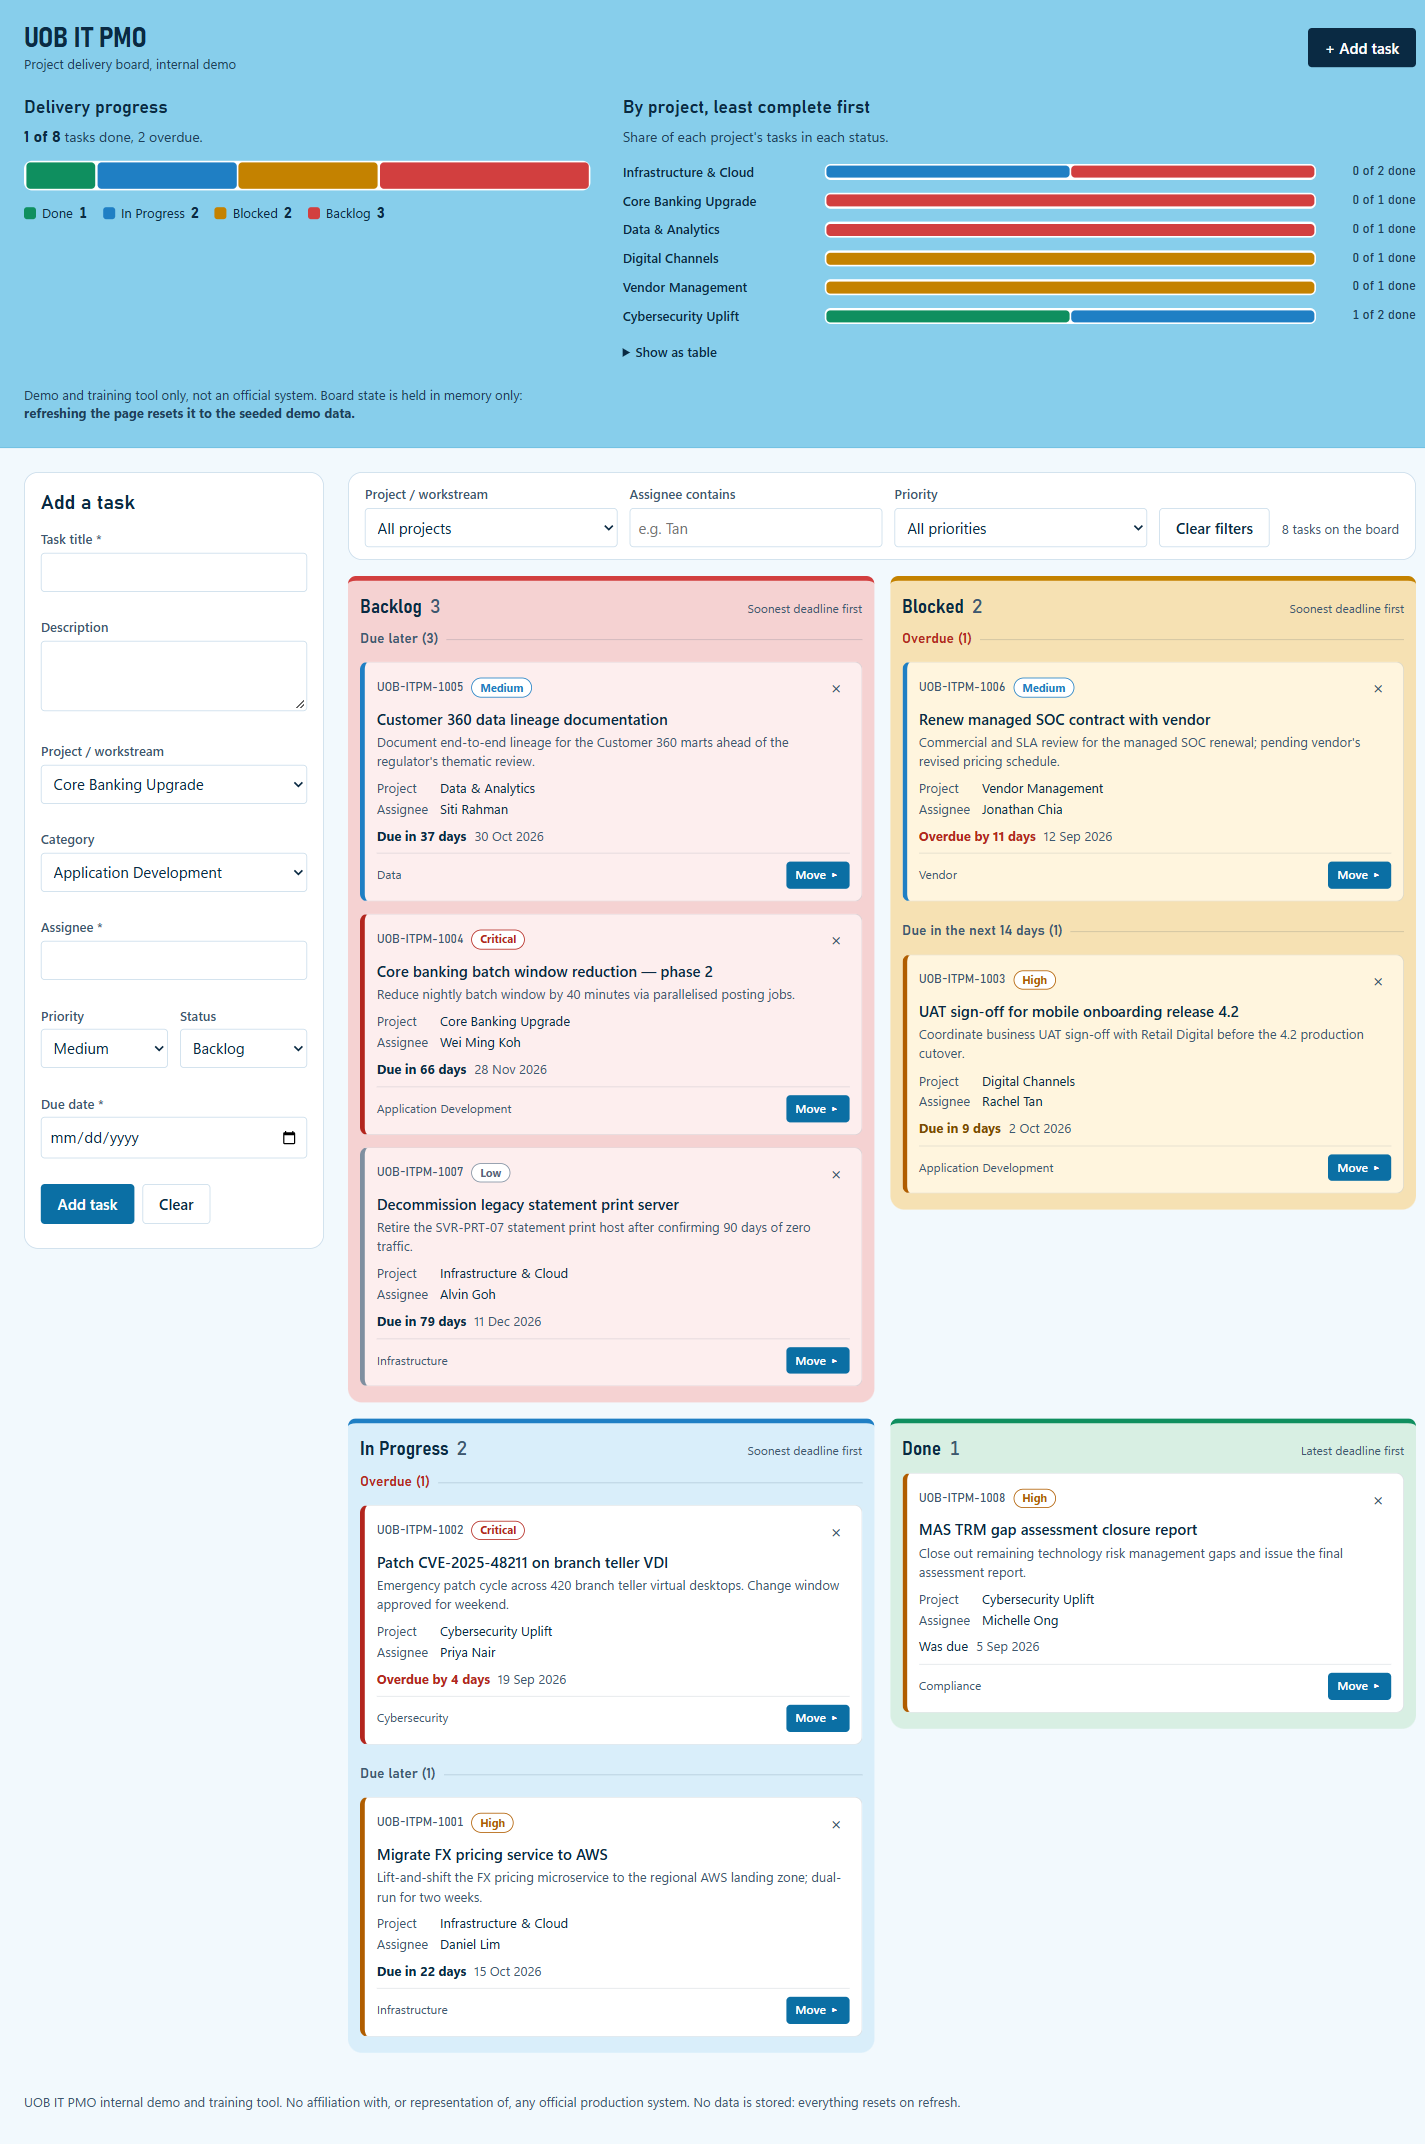
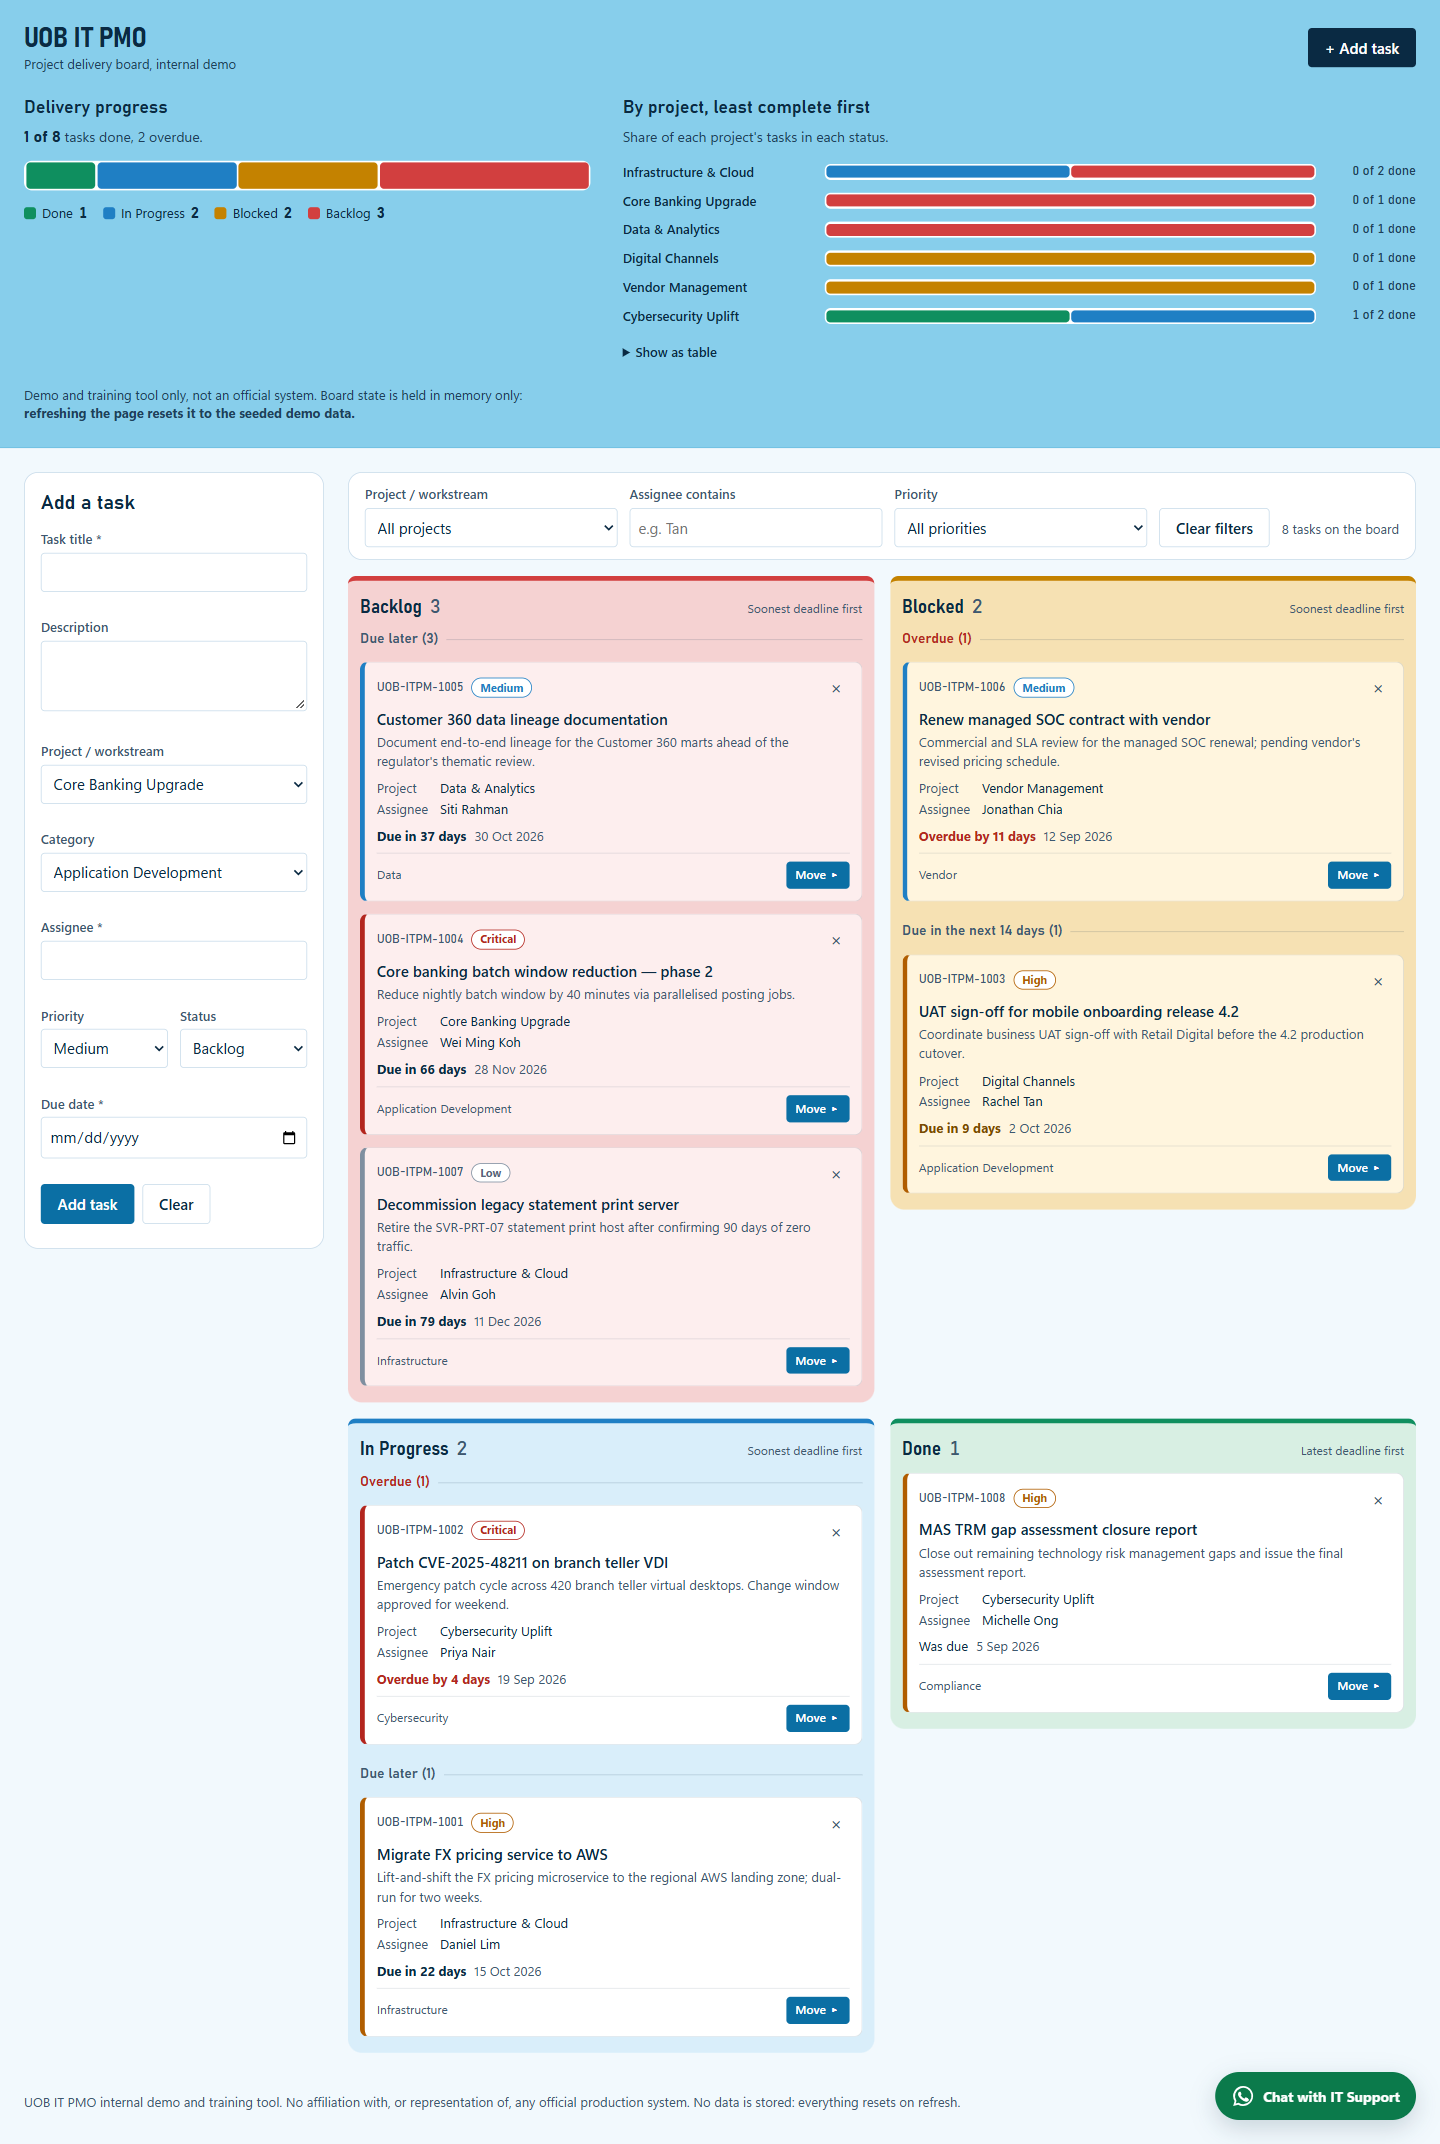
Refresh the README screenshot to show the chat button
Captured from the live site at full-page viewport height so the fixed
button sits where visitors see it, not over a card mid-page.

diff --git a/README.md b/README.md
@@ -6,7 +6,7 @@ markup, styles and behaviour — is one file: `index.html`.
 
 **Live demo:** https://chenxuefeng-code.github.io/kanban4/
 
-![The board in a browser: a sky-blue header with a delivery progress chart (an overall stacked status bar and one bar per project), the Add Task form on the left, and the Backlog lane in red and Blocked lane in amber on the top row, with cards grouped by deadline.](docs/screenshot.png)
+![The board in a browser: a sky-blue header with a delivery progress chart (an overall stacked status bar and one bar per project), the Add Task form on the left, and the Backlog lane in red and Blocked lane in amber on the top row, with cards grouped by deadline. A green "Chat with IT Support" WhatsApp button floats at the bottom right.](docs/screenshot.png)
 
 > This is a demo/training tool, not a product and not an official system. It is not
 > affiliated with, endorsed by, or representative of any real company or bank, and all
